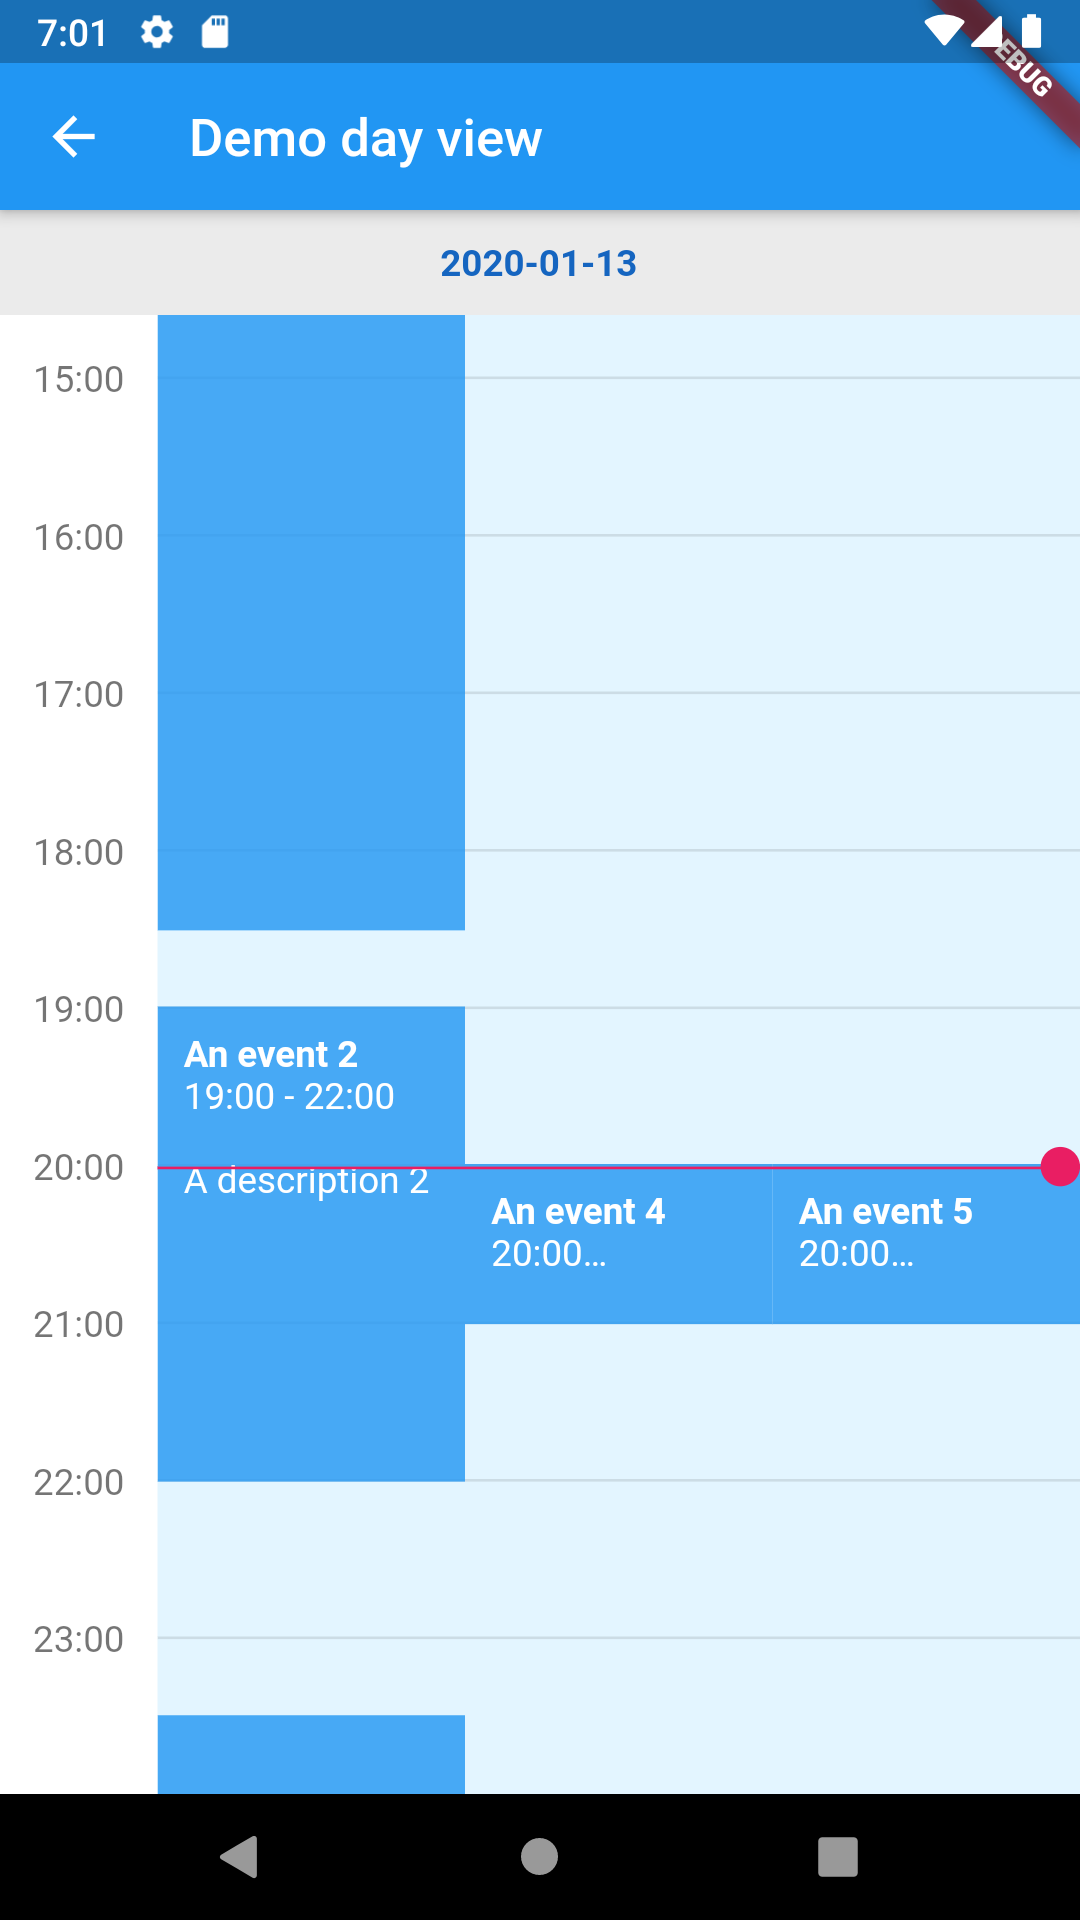
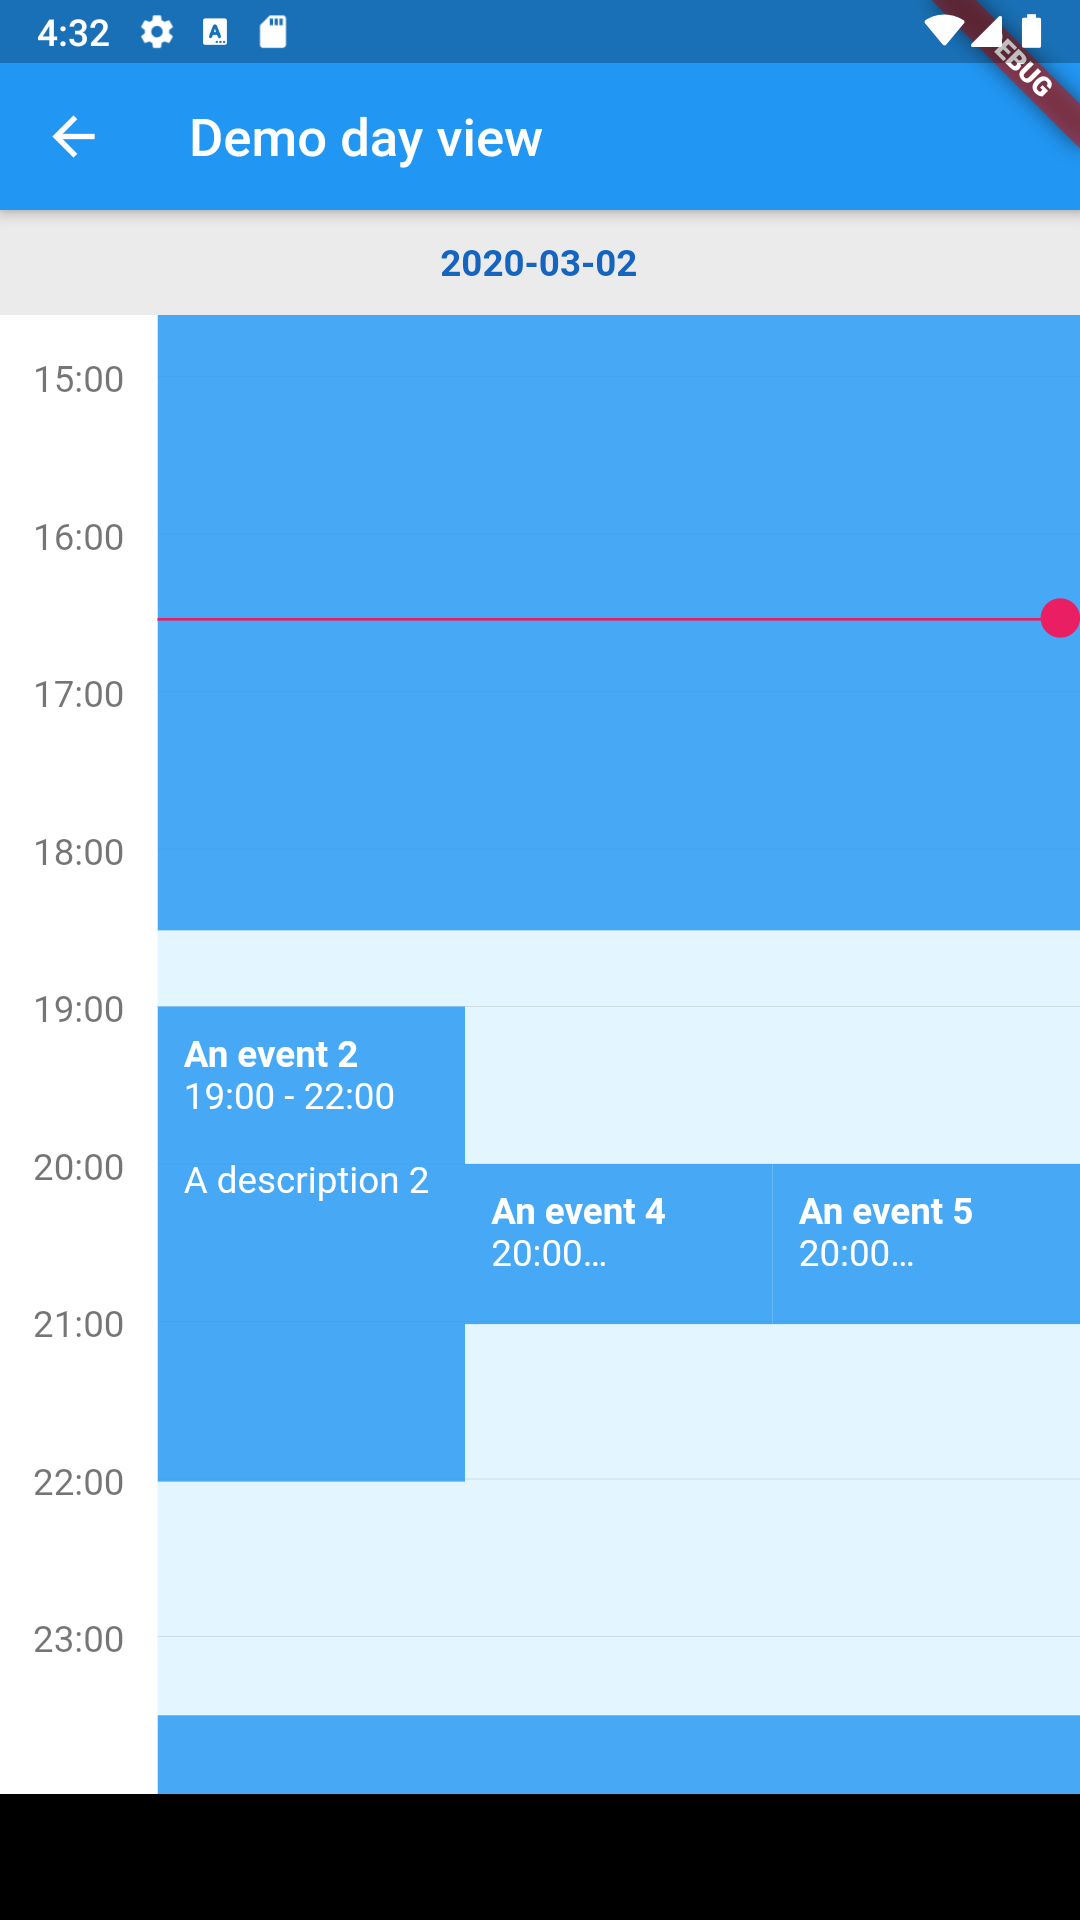
Fixed a bug with events positioning.

diff --git a/lib/src/day_view.dart b/lib/src/day_view.dart
@@ -1,5 +1,4 @@
 import 'dart:collection';
-import 'dart:math' as math;
 
 import 'package:flutter_week_view/src/controller.dart';
 import 'package:flutter_week_view/src/event.dart';
@@ -77,7 +76,7 @@ class DayView extends ZoomableHeadersWidget<DayViewController> {
         );
 
   @override
-  State<StatefulWidget> createState() => _DayViewState(this);
+  State<StatefulWidget> createState() => _DayViewState();
 }
 
 /// The day view state.
@@ -88,16 +87,11 @@ class _DayViewState extends ZoomableHeadersWidgetState<DayView, DayViewControlle
   /// The flutter week view events.
   List<FlutterWeekViewEvent> events;
 
-  /// Creates a new day view state.
-  _DayViewState(DayView dayView)
-      : events = List.of(dayView.events);
-
   @override
   void initState() {
     super.initState();
-    sortEvents();
-    widget.eventsColumnBackgroundPainter.topOffsetCalculator = calculateTopOffset;
 
+    reset();
     WidgetsBinding.instance.addPostFrameCallback((_) {
       setState(() => createEventsDrawProperties());
     });
@@ -107,10 +101,7 @@ class _DayViewState extends ZoomableHeadersWidgetState<DayView, DayViewControlle
   void didUpdateWidget(DayView oldWidget) {
     super.didUpdateWidget(oldWidget);
 
-    eventsDrawProperties.clear();
-    events = List.of(widget.events);
-    sortEvents();
-    widget.eventsColumnBackgroundPainter.topOffsetCalculator = calculateTopOffset;
+    reset();
     createEventsDrawProperties();
   }
 
@@ -189,30 +180,6 @@ class _DayViewState extends ZoomableHeadersWidgetState<DayView, DayViewControlle
     );
   }
 
-  /// Creates the events draw properties and add them to the current list.
-  void createEventsDrawProperties() {
-    _EventsGrid eventsGrid = _EventsGrid();
-    for (FlutterWeekViewEvent event in List.of(events)) {
-      _EventDrawProperties drawProperties = eventsDrawProperties[event] ?? _EventDrawProperties(widget, event);
-      if (!drawProperties.shouldDraw) {
-        events.remove(event);
-        continue;
-      }
-
-      drawProperties.calculateTopAndHeight(this);
-      if (drawProperties.left == null || drawProperties.width == null) {
-        eventsGrid.add(drawProperties);
-      }
-
-      eventsDrawProperties[event] = drawProperties;
-    }
-
-    if (eventsGrid.drawPropertiesList.isNotEmpty) {
-      double eventsColumnWidth = (context.findRenderObject() as RenderBox).size.width - widget.hoursColumnWidth;
-      eventsGrid.processEvents(widget.hoursColumnWidth, eventsColumnWidth);
-    }
-  }
-
   /// Creates the background widgets that should be added to a stack.
   Widget createBackground() => Positioned.fill(
         child: CustomPaint(painter: widget.eventsColumnBackgroundPainter),
@@ -252,8 +219,36 @@ class _DayViewState extends ZoomableHeadersWidgetState<DayView, DayViewControlle
   @override
   bool get shouldScrollToCurrentTime => super.shouldScrollToCurrentTime && Utils.sameDay(widget.date);
 
-  /// Sorts the events.
-  void sortEvents() => events.sort((a, b) => a.start.compareTo(b.start));
+  /// Resets the events positioning and background painter arguments.
+  void reset() {
+    eventsDrawProperties.clear();
+    events = List.of(widget.events)..sort();
+    widget.eventsColumnBackgroundPainter.topOffsetCalculator = calculateTopOffset;
+  }
+
+  /// Creates the events draw properties and add them to the current list.
+  void createEventsDrawProperties() {
+    _EventsGrid eventsGrid = _EventsGrid();
+    for (FlutterWeekViewEvent event in List.of(events)) {
+      _EventDrawProperties drawProperties = eventsDrawProperties[event] ?? _EventDrawProperties(widget, event);
+      if (!drawProperties.shouldDraw) {
+        events.remove(event);
+        continue;
+      }
+
+      drawProperties.calculateTopAndHeight(this);
+      if (drawProperties.left == null || drawProperties.width == null) {
+        eventsGrid.add(drawProperties);
+      }
+
+      eventsDrawProperties[event] = drawProperties;
+    }
+
+    if (eventsGrid.drawPropertiesList.isNotEmpty) {
+      double eventsColumnWidth = (context.findRenderObject() as RenderBox).size.width - widget.hoursColumnWidth;
+      eventsGrid.processEvents(widget.hoursColumnWidth, eventsColumnWidth);
+    }
+  }
 }
 
 /// The events column background painter.
@@ -298,60 +293,79 @@ class EventsColumnBackgroundPainter extends CustomPainter {
 }
 
 /// An utility class that allows to position events in a grid.
+/// Thanks to https://stackoverflow.com/a/11323909/3608831.
 class _EventsGrid {
-  /// The draw properties to handle.
+  /// Events draw properties added to the grid.
   List<_EventDrawProperties> drawPropertiesList = [];
 
-  /// A map containing all pairs (hour, hour draw properties).
-  HashMap<int, List<_EventDrawProperties>> hourDrawProperties = HashMap();
-
-  /// Columns count.
-  int columnsCount = 1;
-
   /// Adds a flutter week view event draw properties.
-  void add(_EventDrawProperties drawProperties) {
-    drawPropertiesList.add(drawProperties);
-    for (int hour in drawProperties.hours) {
-      List<_EventDrawProperties> events = (hourDrawProperties[hour] ?? [])..add(drawProperties);
-      hourDrawProperties[hour] = events;
-      columnsCount = math.max(columnsCount, events.length);
-    }
-  }
-
-  /// Returns whether there is enough space for the specified draw properties at the specified left offset.
-  bool hasRoom(_EventDrawProperties drawProperties, double left) {
-    for (int hour in drawProperties.hours) {
-      for (_EventDrawProperties drawProperties in hourDrawProperties[hour]) {
-        if (drawProperties.left == left) {
-          return false;
-        }
-      }
-    }
-    return true;
-  }
-
-  /// Calculates the minimum left and width for the specified draw properties.
-  void calculateMinLeftAndWidth(_EventDrawProperties drawProperties, double hoursColumnWidth, double eventsColumnWidth) {
-    double eventWidth = eventsColumnWidth / columnsCount;
-    for (int column = 0; column < columnsCount; column++) {
-      drawProperties.width = eventWidth;
-      double left = hoursColumnWidth + column * eventWidth;
-      if (hasRoom(drawProperties, left)) {
-        drawProperties.left = left;
-        break;
-      }
-    }
-  }
+  void add(_EventDrawProperties drawProperties) => drawPropertiesList.add(drawProperties);
 
   /// Processes all display properties added to the grid.
-  void processEvents(double hoursColumnWidth, double eventsColumnWidth) => drawPropertiesList.forEach((drawProperties) => calculateMinLeftAndWidth(drawProperties, hoursColumnWidth, eventsColumnWidth));
+  void processEvents(double hoursColumnWidth, double eventsColumnWidth) {
+    List<List<_EventDrawProperties>> columns = [];
+    DateTime lastEventEnding;
+    for (_EventDrawProperties drawProperties in drawPropertiesList) {
+      if (lastEventEnding != null && drawProperties.start.isAfter(lastEventEnding)) {
+        packEvents(columns, hoursColumnWidth, eventsColumnWidth);
+        columns.clear();
+        lastEventEnding = null;
+      }
+
+      bool placed = false;
+      for (List<_EventDrawProperties> column in columns) {
+        if (!column.last.collidesWith(drawProperties)) {
+          column.add(drawProperties);
+          placed = true;
+          break;
+        }
+      }
+
+      if (!placed) {
+        columns.add([drawProperties]);
+      }
+
+      if (lastEventEnding == null || drawProperties.end.compareTo(lastEventEnding) > 0) {
+        lastEventEnding = drawProperties.end;
+      }
+    }
+
+    if (columns.isNotEmpty) {
+      packEvents(columns, hoursColumnWidth, eventsColumnWidth);
+    }
+  }
+
+  /// Sets the left and right positions for each event in the connected group.
+  void packEvents(List<List<_EventDrawProperties>> columns, double hoursColumnWidth, double eventsColumnWidth) {
+    for (int columnIndex = 0; columnIndex < columns.length; columnIndex++) {
+      List<_EventDrawProperties> column = columns[columnIndex];
+      for (_EventDrawProperties drawProperties in column) {
+        drawProperties.left = hoursColumnWidth + (columnIndex / columns.length) * eventsColumnWidth;
+        int colSpan = calculateColSpan(columns, drawProperties, columnIndex);
+        drawProperties.width = (eventsColumnWidth * colSpan) / (columns.length);
+      }
+    }
+  }
+
+  /// Checks how many columns the event can expand into, without colliding with other events.
+  int calculateColSpan(List<List<_EventDrawProperties>> columns, _EventDrawProperties drawProperties, int column) {
+    int colSpan = 1;
+    for (int columnIndex = column + 1; columnIndex < columns.length; columnIndex++) {
+      List<_EventDrawProperties> column = columns[columnIndex];
+      for (_EventDrawProperties other in column) {
+        if (drawProperties.collidesWith(other)) {
+          return colSpan;
+        }
+      }
+      colSpan++;
+    }
+
+    return colSpan;
+  }
 }
 
 /// An utility class that allows to display the events in the events column.
 class _EventDrawProperties {
-  /// Hours covered by the event.
-  List<int> hours;
-
   /// The top position.
   double top;
 
@@ -379,32 +393,32 @@ class _EventDrawProperties {
     start = event.start;
     end = event.end;
 
-    DateTime tomorrow = dayView.date.add(const Duration(days: 1));
-
     if (start.isBefore(dayView.date)) {
       start = dayView.date;
     }
 
+    DateTime tomorrow = dayView.date.add(const Duration(days: 1));
     if (end.isAfter(tomorrow)) {
       end = tomorrow;
-    }
-
-    DateTime hour = start.subtract(Duration(minutes: start.minute));
-    DateTime max = end.add(Duration(hours: end.minute == 0 ? 0 : 1)).subtract(Duration(minutes: end.minute));
-    hours = [];
-    while (hour.isBefore(max)) {
-      hours.add(hour.hour);
-      hour = hour.add(const Duration(hours: 1));
     }
   }
 
   /// Whether this event should be drawn.
-  bool get shouldDraw => hours != null && hours.isNotEmpty;
+  bool get shouldDraw => start != null && end != null;
 
   /// Calculates the top and the height of the event rectangle.
   void calculateTopAndHeight(_DayViewState state) {
     top = state.calculateTopOffset(start.hour, start.minute);
     height = state.calculateTopOffset(0, end.difference(start).inMinutes) + 1;
+  }
+
+  /// Returns whether this draw properties overlaps another.
+  bool collidesWith(_EventDrawProperties other) {
+    if (!shouldDraw || !other.shouldDraw) {
+      return false;
+    }
+
+    return end.isAfter(other.start) && start.isBefore(other.end);
   }
 
   /// Creates the event widget.

diff --git a/example/lib/main.dart b/example/lib/main.dart
@@ -61,7 +61,7 @@ class _FlutterWeekViewDemoAppBody extends StatelessWidget {
             ),
             RaisedButton(
               child: const Text('Demo day view'),
-              onPressed: () => Navigator.pushNamed(context, '/dyna'),
+              onPressed: () => Navigator.pushNamed(context, '/day-view'),
             ),
             RaisedButton(
               child: const Text('Demo week view'),
@@ -204,7 +204,7 @@ class _DynamicDayViewState extends State<_DynamicDayView> {
       appBar: AppBar(
         title: const Text('Demo dynamic day view'),
         actions: [
-          FlatButton.icon(
+          IconButton(
             onPressed: () {
               setState(() {
                 DateTime start = DateTime(now.year, now.month, now.day, Random().nextInt(24), Random().nextInt(60));
@@ -220,7 +220,6 @@ class _DynamicDayViewState extends State<_DynamicDayView> {
               Icons.add,
               color: Colors.white,
             ),
-            label: const SizedBox.shrink(),
           ),
         ],
       ),

diff --git a/lib/src/event.dart b/lib/src/event.dart
@@ -5,7 +5,7 @@ import 'package:flutter_week_view/src/day_view.dart';
 import 'package:flutter_week_view/src/utils.dart';
 
 /// Represents a flutter week view event.
-class FlutterWeekViewEvent {
+class FlutterWeekViewEvent extends Comparable<FlutterWeekViewEvent> {
   /// The event title.
   final String title;
 
@@ -84,5 +84,14 @@ class FlutterWeekViewEvent {
         ),
       ),
     );
+  }
+
+  @override
+  int compareTo(FlutterWeekViewEvent other) {
+    int result = start.compareTo(other.start);
+    if (result != 0) {
+      return result;
+    }
+    return end.compareTo(other.end);
   }
 }

diff --git a/CHANGELOG.md b/CHANGELOG.md
@@ -1,3 +1,7 @@
+## [0.2.1+5] - 2020-03-09
+
+* Fixed a bug with events positioning.
+
 ## [0.2.1+4] - 2020-02-18
 
 * Fixed a bug with `ZoomController` in stateful context.
